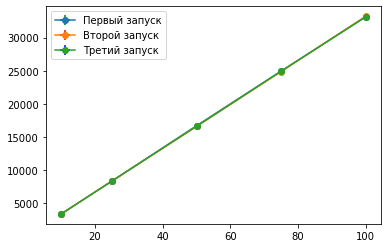
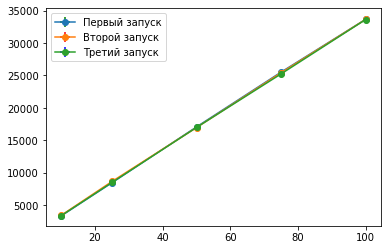
fix errors calc

diff --git a/Mandelbrot/src/screen.cpp b/Mandelbrot/src/screen.cpp
@@ -19,6 +19,10 @@ void run_mandelbrote(void (*get_pixels)(u_int32_t *counters)) {
 
     SDL_Event event;
 
+    get_time(1, counters, get_pixels);
+    calc_colors(screen, counters);
+    draw_picture(window, screen);
+
     Time time = {};
     for (int i = 0; i < TIMES_SIZE; ++i) {
         time = get_time(COUNT_TIMES[i], counters, get_pixels);
@@ -57,10 +61,12 @@ static Time get_time(int count_times, u_int32_t *counters, void (*get_pixels)(u_
     }
     time.time /= REPEAT_BENCH;
     for (int i = 0; i < REPEAT_BENCH; ++i) {
-        times[i] -= time.time;
-        time.error += times[i];
+        long delta = (times[i] - time.time);
+        time.error += delta * delta;
     }
     time.error /= REPEAT_BENCH;
+    time.error = sqrt(time.error);
+
     return time;
 }
 

diff --git a/Mandelbrot/src/main.cpp b/Mandelbrot/src/main.cpp
@@ -1,9 +1,15 @@
 #include "common.h"
 #include "screen.h"
-#include "mandelbrot1.h"
-#include "mandelbrot2.h"
+#include "scalar.h"
+#include "vector.h"
 
 int main() {
-    run_mandelbrote(calc_iterations_1);
+    #ifdef M1
+        run_mandelbrote(calc_iterations_scalar);
+    #elif defined(M2)
+        run_mandelbrote(calc_iterations_vector);
+    #else
+        #error 
+    #endif
     return 0;
 }

diff --git a/Mandelbrot/src/vector.cpp b/Mandelbrot/src/vector.cpp
@@ -1,7 +1,7 @@
-#include "mandelbrot2.h"
+#include "vector.h"
 #include "common.h"
 
-void calc_iterations_2(u_int32_t *screen) {
+void calc_iterations_vector(u_int32_t *screen) {
     __m256 arr_shifts = _mm256_set_ps(7 * STEP, 6 * STEP, 5 * STEP, 4 * STEP, 
                                       3 * STEP, 2 * STEP, 1 * STEP, 0 * STEP); 
     __m256 max_r2     = _mm256_set1_ps(MAX_R2);

diff --git a/Mandelbrot/src/scalar.cpp b/Mandelbrot/src/scalar.cpp
@@ -1,7 +1,7 @@
 #include "common.h"
-#include "mandelbrot1.h"
+#include "scalar.h"
 
-void calc_iterations_1(u_int32_t *counters) {
+void calc_iterations_scalar(u_int32_t *counters) {
     for (int screen_y = 0; screen_y < SCREEN_HEIGHT; ++screen_y) {
         for (int screen_x = 0; screen_x < SCREEN_WIDTH; ++screen_x) {
             float x_0 = ((float)screen_x + X_SHIFT) / SCALE;

diff --git a/Mandelbrot/src/scalar.h b/Mandelbrot/src/scalar.h
@@ -4,6 +4,6 @@
 #include <stdio.h>
 #include <stdlib.h>
 
-void calc_iterations_1(u_int32_t *counters);
+void calc_iterations_scalar(u_int32_t *counters);
 
 #endif

diff --git a/Mandelbrot/src/vector.h b/Mandelbrot/src/vector.h
@@ -3,6 +3,6 @@
 
 #include <immintrin.h>
 
-void calc_iterations_2(u_int32_t *screen);
+void calc_iterations_vector(u_int32_t *screen);
 
 #endif

diff --git a/Mandelbrot/README.md b/Mandelbrot/README.md
@@ -25,7 +25,7 @@ $$x_{i+1} = x_i^2 - y_i^2 + y_0$$
 | Compiler       | gcc 11.3.0         |
 
 Флаги для сборки:
-`-O3 -mtune=native -flto -mavx -mavx2`
+`-O3 -mavx -mavx2`
 
 Измерения производятся при полной зарядке ноутбука с питанием от сети, параллельно никаких действий на ноутбуке не выполнется.
 
@@ -177,12 +177,12 @@ jb      .L12
 ![cmp](plots/cmp.png)
 
 Коэффициенты прямых при аппроксимации уравнением $y = kx + b$ следующие:
-| m | k   | b |
-|---|-----|---|
-| 1 | 332 | 6 |
-| 2 |  45 | 4 |
+| m | k   | b  |
+|---|-----|----|
+| 1 | 338 | 46 |
+| 2 |  46 | -1 |
 
-Соотношение коэффициентов: $7.39$. При этом смещение показывает ожидаемое время работы функции при нулевом количестве повторений её вызова, то есть показывает затраты на действия, не связанные с ним. Это, например, время на использование `volatile` переменной с целью предотвращения пропуска цикла оптимизатором. 
+Соотношение коэффициентов: $7.33$. При этом смещение показывает ожидаемое время работы функции при нулевом количестве повторений её вызова, то есть показывает затраты на действия, не связанные с ним. Это, например, время на использование `volatile` переменной с целью предотвращения пропуска цикла оптимизатором. 
 
 Значение $8$ не достигается, в частности, из-за таких затрат, а так же затрат на вызов функции и возвращение из неё. Так же влияет то, что для некоторых точек цикл продолжается в том числе после того, как они вышли за границу максимального удаления, а значит экономится не полное время на эти точки, а лишь его часть. Поясним это на примере:
 
